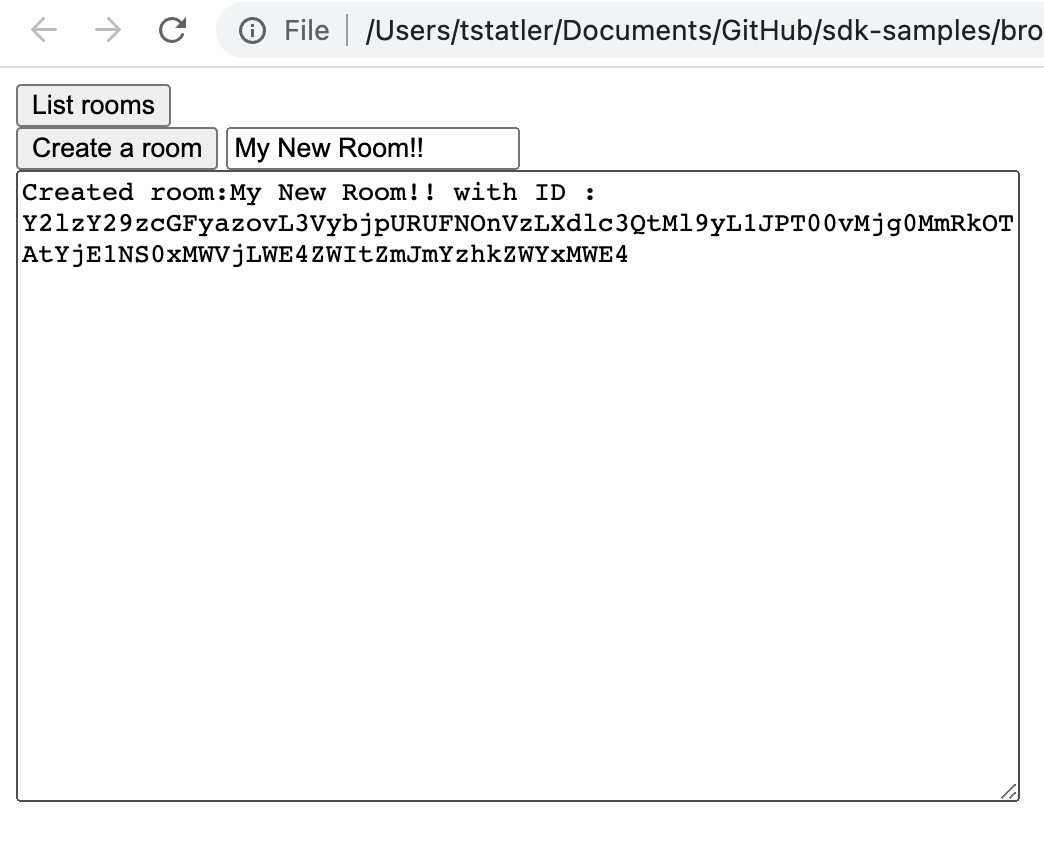
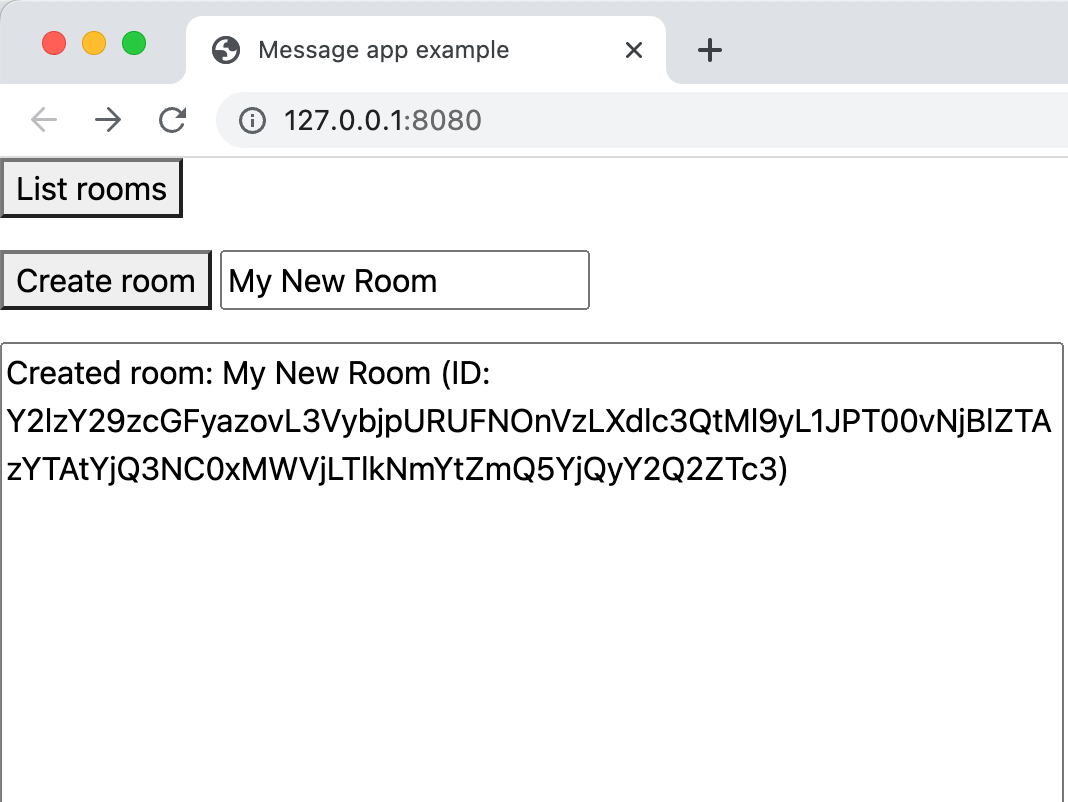
WIP

Changed region(s): [[0.0, 0.0, 1.0, 0.9352], [0.9502, 0.4052, 0.9808, 0.4364]]

diff --git a/browser/messaging/test/index.js b/browser/messaging/test/index.js
@@ -1,32 +1,101 @@
 // Initialize Webex with your personal access token
 const webex = (window.webex = Webex.init({
   credentials: {
-    access_token: "YjhiNTM3ZWMtMDJjNC00NTA5LTgzNmYtNzYxNzY5Y2ExMTAxOGQ2MWMxOWMtYTJj_P0A1_9c947ef3-ba2a-406e-9976-6a57f8f739b7",
+    access_token: "ZTQ3MGY0NTgtNWU0Zi00NjdjLTg4MTYtZmZiZGFlYTc0NzA5Y2UxMzNhYTktZDYz_P0A1_9c947ef3-ba2a-406e-9976-6a57f8f739b7",
   },
 }));
+
+var logger;
 
 webex.once(`ready`, function () {
   output.value = "Webex Ready \n";
 });
 
+var output = document.getElementById("output");
+
+// Add user to room
+function addUser() {
+  var email = document.getElementById("user-email").value;
+  var roomID = document.getElementById("add-user-room-id").value;
+  output.value = "";
+  webex.memberships.create({
+    personEmail: email,
+    roomId: roomID
+  }).then(function (membership) {
+    log(membership.personEmail + " added to room");
+  }).catch(function (error) {
+    log(error)
+  });
+}
+
+function sendMessage() {
+  // send message to createdRoom room
+  output.value = "";    
+  var messageText = document.getElementById("message-text").value;
+  var roomID = document.getElementById("send-message-room-id").value;
+  if(roomID) {
+      webex.messages.create({
+        text: messageText,
+        roomId: roomID,
+      }).then(function (message) {
+        log("Message sent to room.")
+      }).catch(function(error) {
+        log("Error sending message: ", error)
+      });
+    } else {
+      log("No room ID provided.")
+    }
+}
+
+// Delete room
+function deleteRoom() {
+  var roomID = document.getElementById("delete-room-id").value;
+  if (roomID) {
+    output.value = "";
+    webex.rooms.remove(roomID).then(function (t) {
+      log("Room deleted (" + roomID + ")");
+    }).catch(function (error) {
+      log(error)
+    })
+  } else {
+    log("Enter the ID of the room to delete.")
+  }
+}
+
+// List rooms
 function listRooms() {
-  webex.rooms
-    .list({ max: 10 })
+  output.value = "";
+  webex.rooms.list({ max: 10 })
     .then(function (rooms) {
       if (rooms.items.length == 0) {
-        output.value = "There are no rooms in your space";
+        log("There are no rooms to list.");
       } else {
         for (var i = 0; i < rooms.items.length; i += 1) {
-          output.value += rooms.items[i].title + "\n";
+          log(rooms.items[i].title + " (" + rooms.items[i].id + ")")
         }
       }
-    }).catch(function (error) {
-      console.log(error)
-      output.value += error + "\n";
+    })
+    .catch(function (error) {
+        log(error)
     });
 }
 
+// Create room
+function createRoom() {
+  var roomName = document.getElementById("room-name").value;
+  output.value = "";
+  if (roomName == "") {
+    log("Enter a room name.")
+    return;
+  }
+  webex.rooms.create({ title: roomName }).then(function (room) {
+    newRoomID = room.id;
+    log("Created room: " + room.title + " (ID: " + room.id + ")")
+  }).catch(function (error) {
+    log(error)
+  });
+}
 
-function clearConsole() {
-  output.value = ""
+function log(string) {
+  output.value += string + "\n----------\n"
 }

diff --git a/browser/messaging/test/index.html b/browser/messaging/test/index.html
@@ -9,67 +9,24 @@
 </head>
 <body>
 
-  <div style="padding-right: 50%;">
-  
-    <div class="container">
-      <div class="row justify-content-md-center">
-        <div class="col col-lg-2">
-          1 of 3
-        </div>
-        <div class="col-md-auto">
-          Variable width content
-        </div>
-        <div class="col col-lg-2">
-          3 of 3
-        </div>
-      </div>
-      <div class="row">
-        <div class="col">
-          1 of 3
-        </div>
-        <div class="col-md-auto">
-          Variable width content
-        </div>
-        <div class="col col-lg-2">
-          3 of 3
-        </div>
-      </div>
-    </div>
-  </div>
+    <button style=";" id="listrooms" onclick="listRooms()">List rooms</button>
+    <p></p>
+    <button style="" id="createroom" onclick="createRoom()">Create room</button>
+    <input type="text" value="Breakout room" id="room-name">
+    <p></p>
+    <button style="" id="sendmessage" onclick="sendMessage()">Send message</button>
+    <input type="text" value="Message text... " id="message-text">
+    <input type="text" placeholder="Room ID..." id="send-message-room-id">
+    <p></p>
+    <button style="" id="adduser" onclick="addUser()">Add user</button>
+    <input type="text" placeholder="user@example.com" id="user-email">
+    <input type="text" placeholder="Room ID..." id="add-user-room-id">
+    <!-- <p></p>
+    <button style="" id="deleteroom" onclick="deleteRoom()">Delete room</button>
+    <input type="text" placeholder="Room ID..." id="delete-room-id"> -->
 
-  <div>
+    <textarea style="display: block;" id="output" cols="60" rows="20"> </textarea>
 
-    <div class="container-sm">
-
-      <div class="mb-3">
-        <label for="formGroupExampleInput" class="form-label">Example label</label>
-        <input type="text" class="form-control" id="formGroupExampleInput" placeholder="Example input placeholder">
-      </div>
-      <div class="mb-3">
-        <label for="formGroupExampleInput2" class="form-label">Another label</label>
-        <input type="text" class="form-control" id="formGroupExampleInput2" placeholder="Another input placeholder">
-      </div>
-      <div class="row">
-        <div class="col-lg-4">
-          <button  id="listrooms" onclick="listRooms()">List rooms</button>
-          <button  name="clear" id="clear" onclick="clear()">Clear console</button>
-          <textarea  name="output" id="output" cols="60" rows="20"> </textarea>
-        </div>
-      </div>
-          <div class="row">
-      <div class="col-lg-4">
-        <input type="text" class="form-control" placeholder="First name" aria-label="First name">
-      </div>
-      <div class="col-lg-4">
-        <input type="text" class="form-control" placeholder="Last name" aria-label="Last name">
-      </div>
-    </div>
-    </div>
-    
- 
-  </div>
-
- 
     <script
       crossorigin
       src="https://unpkg.com/webex@^1/umd/webex.min.js"></script>

diff --git a/browser/messaging/index.js b/browser/messaging/index.js
@@ -1,6 +1,6 @@
 // Get your personal access token at:
 // https://developer.webex.com/docs/getting-started#accounts-and-authentication
-var personal_access_token = "N2UzZWQzY2ItMjc2ZC00MDcxLWEwYzgtZGRkY2UyMDFmMTM5NjJlYmU0YjctMTAx_P0A1_24d5456b-c672-4ced-a782-2192b5ca4d1f"
+var personal_access_token = "NTg5MjM5YmItZWFmNS00ZWIwLThjNmYtNDczMTMxY2U1MDA2ZTI1MDgwMGEtOGFk_P0A1_9c947ef3-ba2a-406e-9976-6a57f8f739b7"
 
 // Initialize Webex with access token
 const webex = window.webex = Webex.init({
@@ -119,6 +119,11 @@ function deleteRoom(roomID) {
     log("Enter the ID of the room to delete.")
   }
 }
+
+// listElement = document.getElementById("list-group");
+// listElement.innerHTML = "";
+
+
 
 // List rooms
 function listRooms() {
